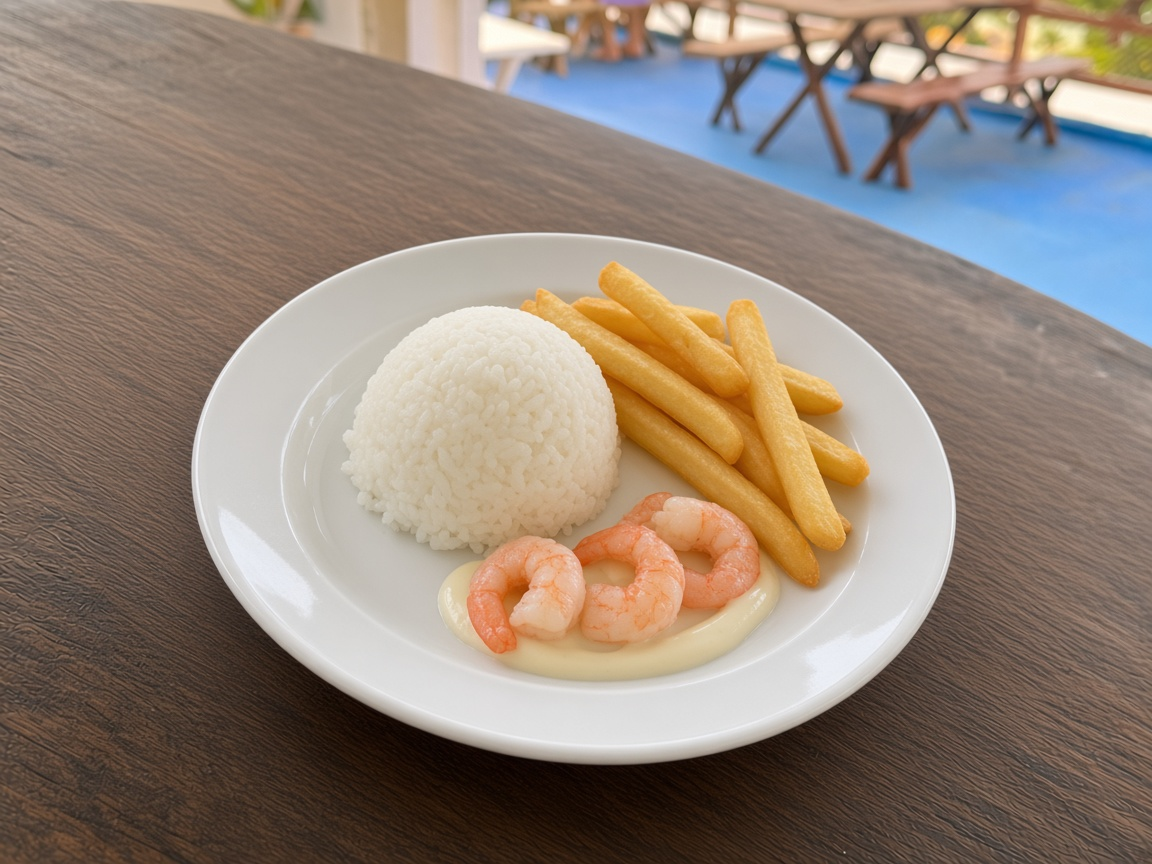
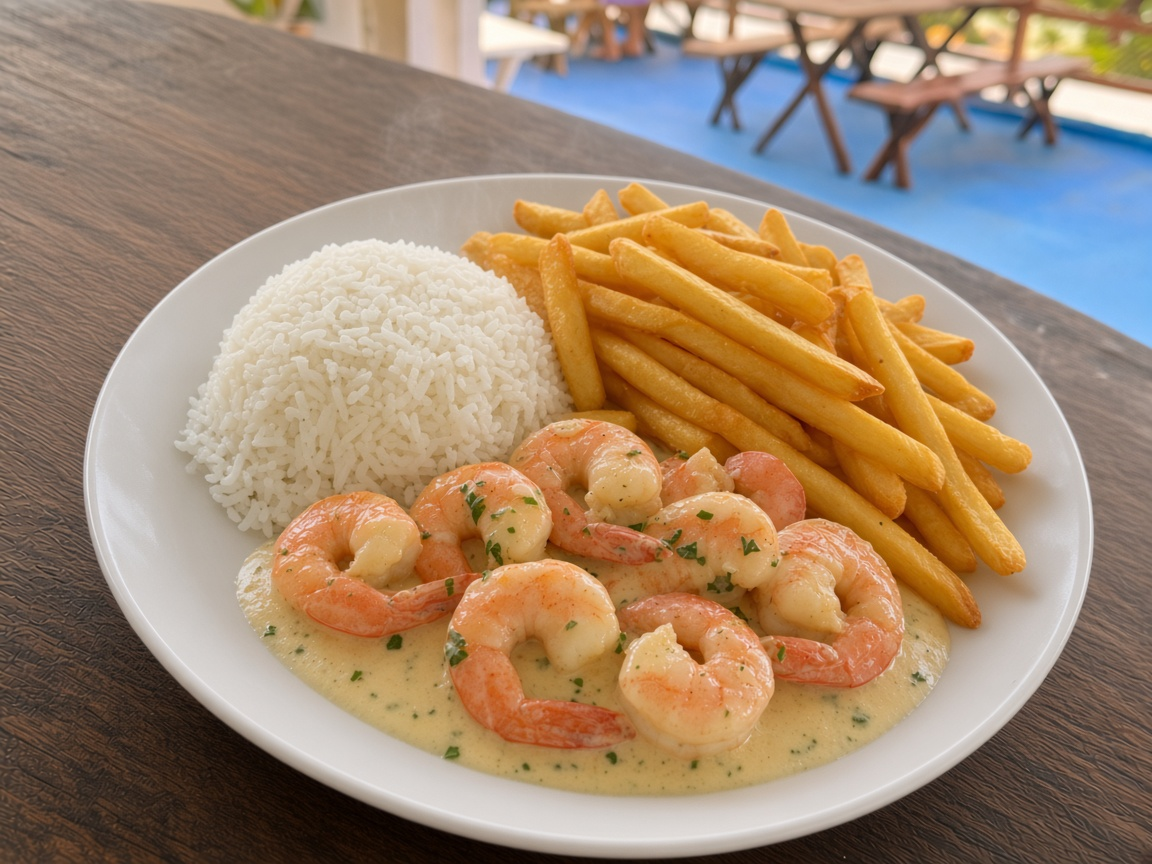
Volta as proteínas dos Infantis ao molho suculento da versão anterior, no prato infantil.

diff --git a/online/21st/index.html b/online/21st/index.html
@@ -21,7 +21,7 @@
       href="https://fonts.googleapis.com/css2?family=Oswald:wght@500;600;700&family=Source+Sans+3:wght@400;500;600;700&display=swap"
       rel="stylesheet"
     />
-    <link rel="stylesheet" href="styles.css?v=1.1.14-online" />
+    <link rel="stylesheet" href="styles.css?v=1.1.15-online" />
   </head>
   <body>
     <!-- 21st component: Floating Food Hero (id: 8435, ravikatiyar162) -->
@@ -87,6 +87,6 @@
       </div>
     </div>
 
-    <script src="app.js?v=1.1.14-online"></script>
+    <script src="app.js?v=1.1.15-online"></script>
   </body>
 </html>

diff --git a/online/index.html b/online/index.html
@@ -21,7 +21,7 @@
       href="https://fonts.googleapis.com/css2?family=Oswald:wght@500;600;700&family=Source+Sans+3:wght@400;500;600;700&display=swap"
       rel="stylesheet"
     />
-    <link rel="stylesheet" href="styles.css?v=1.1.14-online" />
+    <link rel="stylesheet" href="styles.css?v=1.1.15-online" />
   </head>
   <body>
     <header class="hero" id="topo">
@@ -83,6 +83,6 @@
       </div>
     </div>
 
-    <script src="app.js?v=1.1.14-online"></script>
+    <script src="app.js?v=1.1.15-online"></script>
   </body>
 </html>

diff --git a/README.md b/README.md
@@ -13,12 +13,12 @@ Cardápio online + PDF com **fonte única de dados** em `data/menu-data.json`.
 
 ## Status do cardápio
 
-_Métricas atualizadas automaticamente em 2026-09-17 05:37._
+_Métricas atualizadas automaticamente em 2026-09-17 05:45._
 
 - **153** itens em **18** categorias
 - **153** fotos em `assets/fotos/` (completo)
 - PDF do site: `online/cardapio-prainha-rooftop.pdf` (4.02 MB)
-- Versão dos dados: `1.1.14-online`
+- Versão dos dados: `1.1.15-online`
 
 ## Estrutura
 
